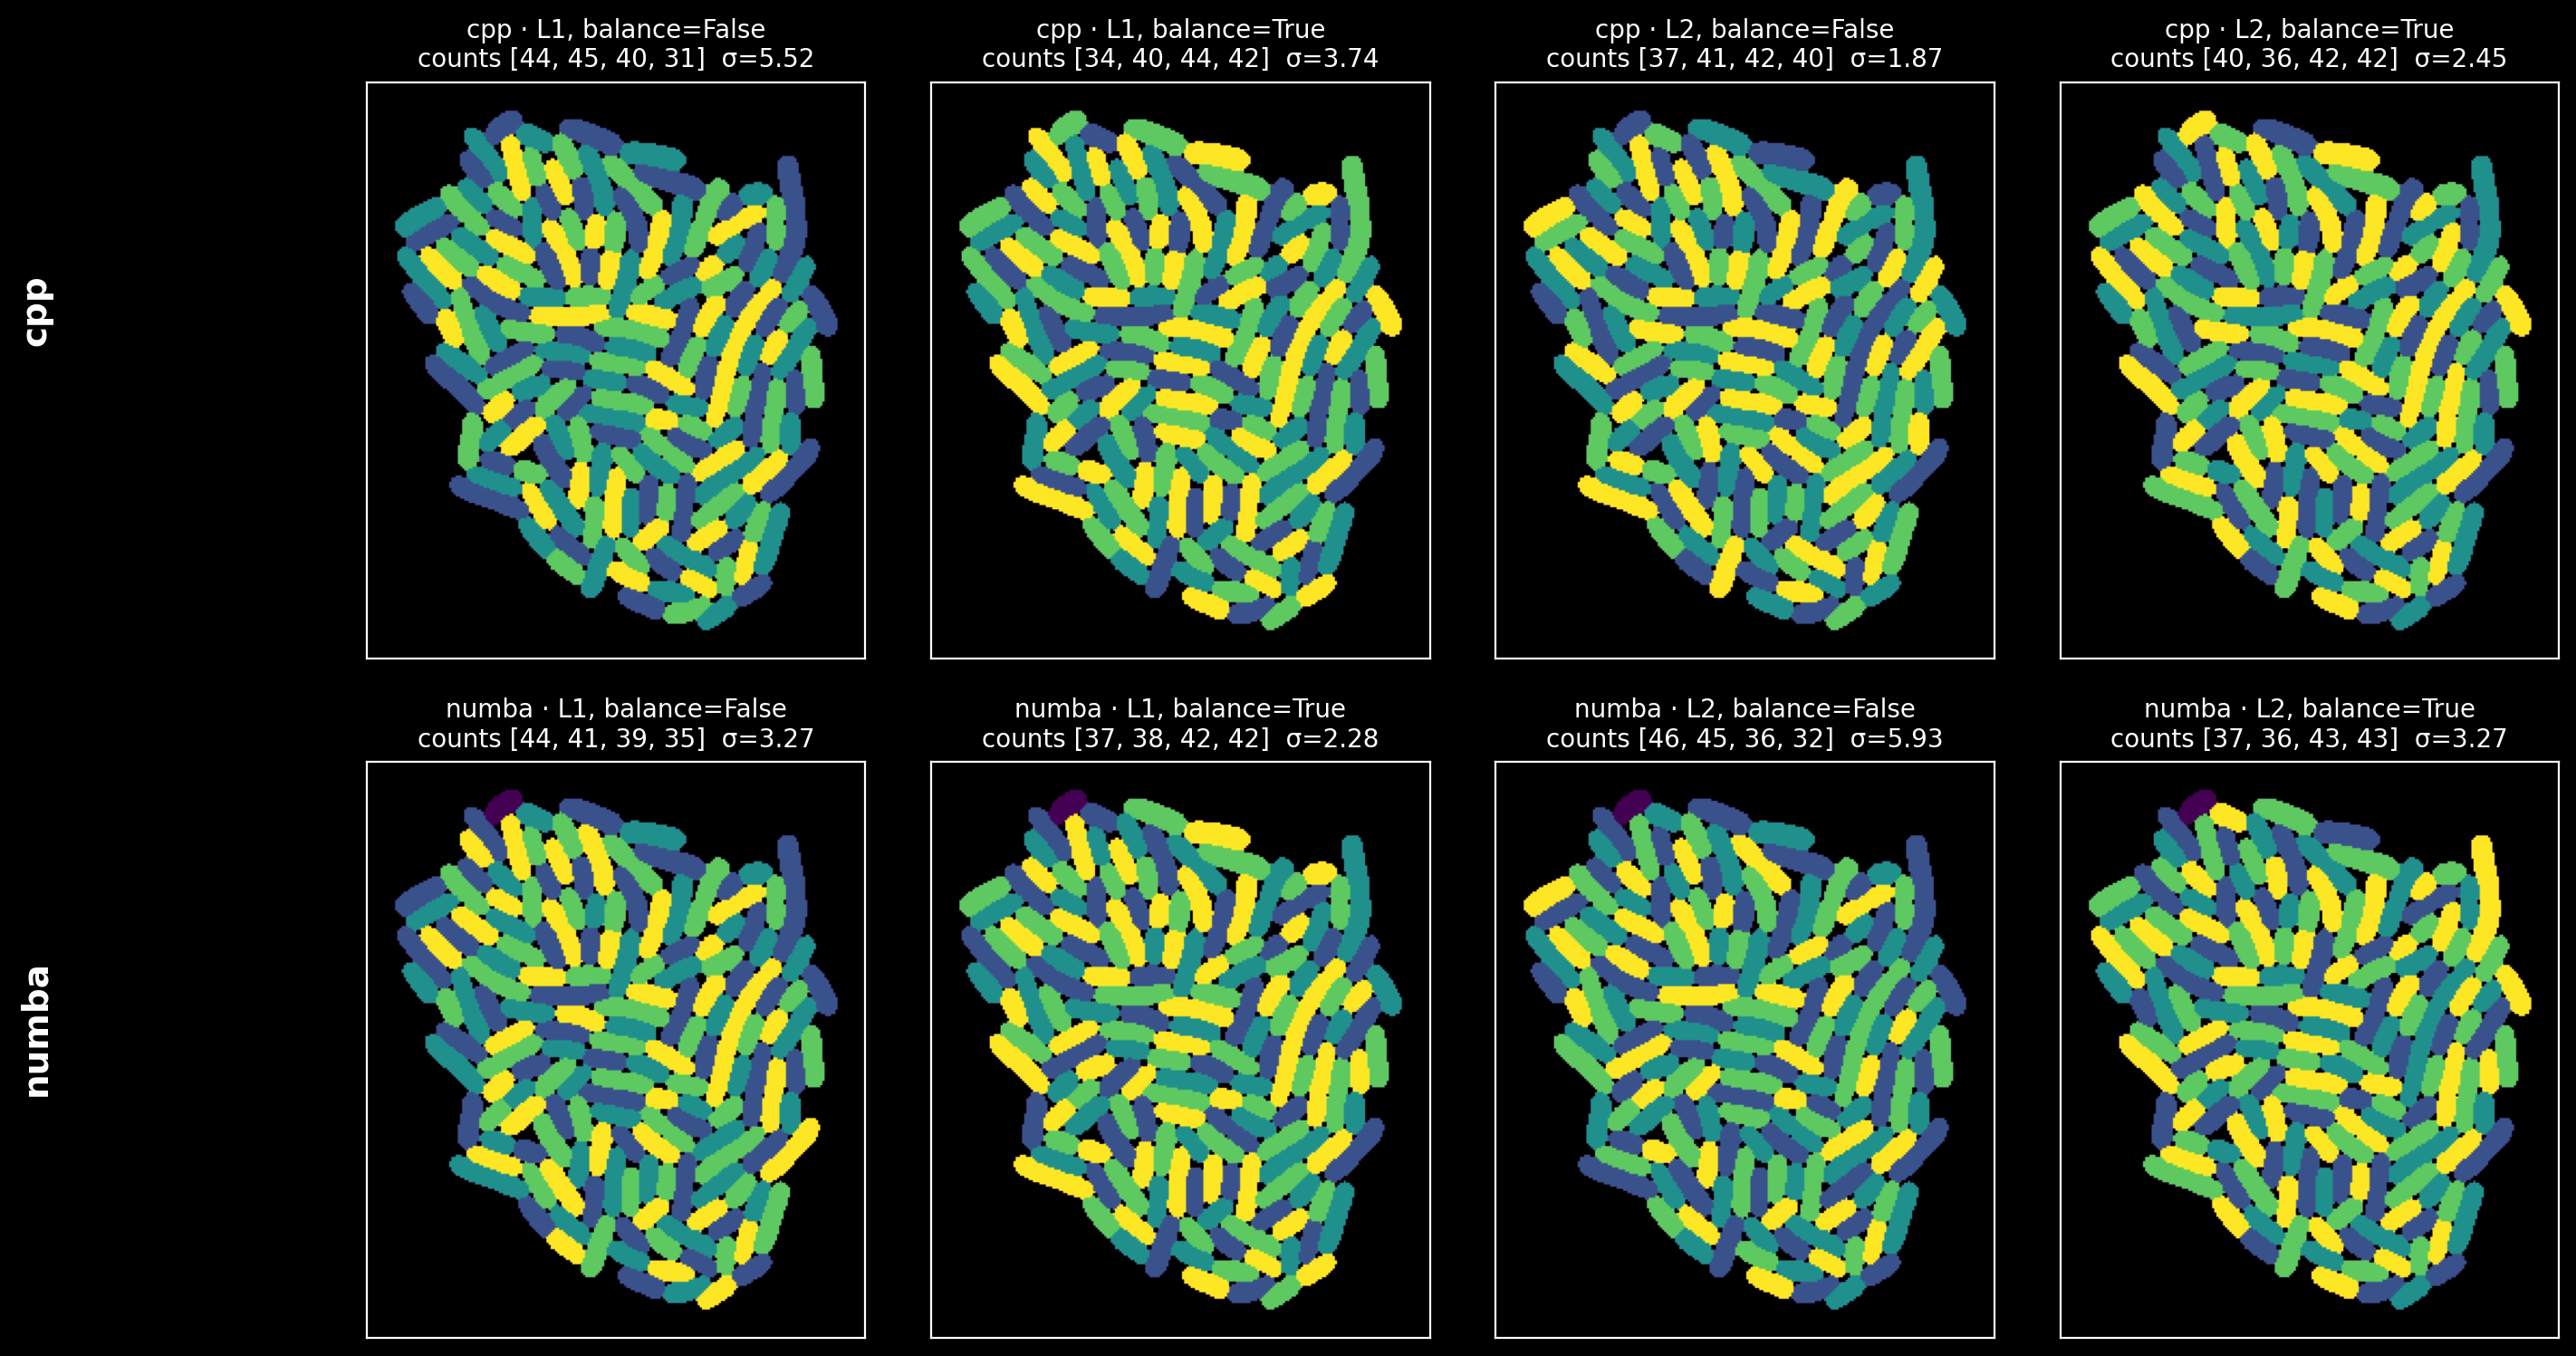
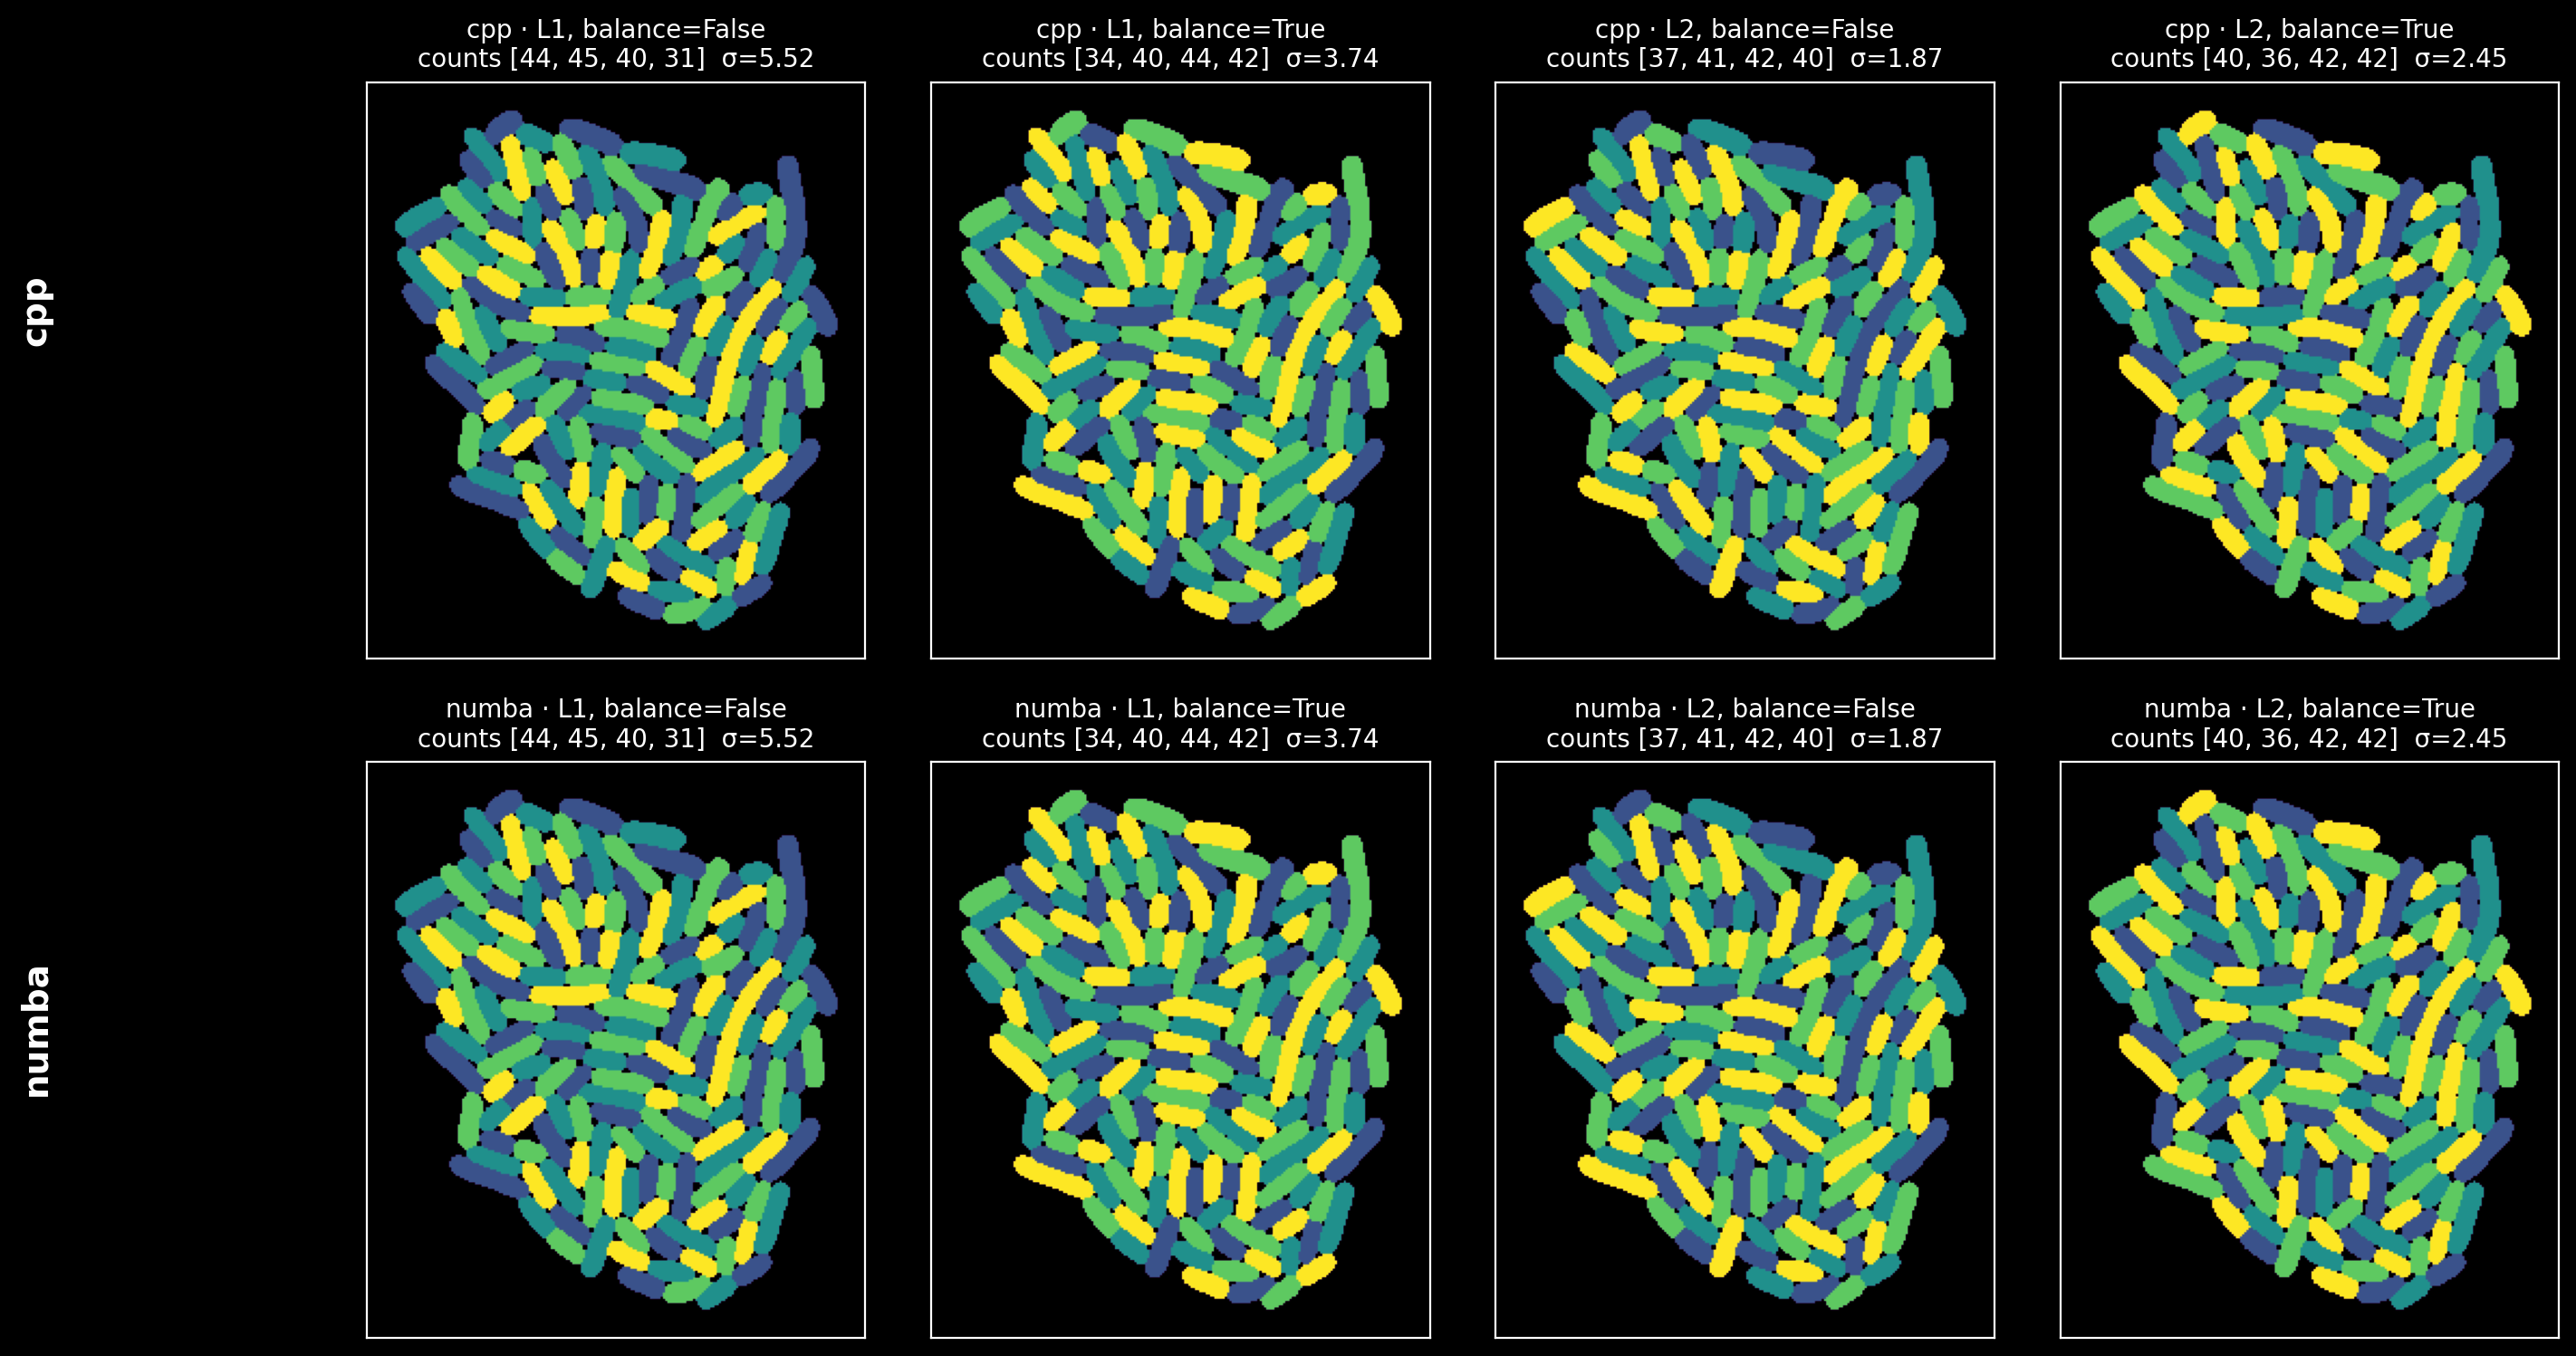
cpp+py: fix format_labels min-shift bug for the ascending-source path
Earlier I fixed the min-shift logic in format_labels_inplace_first_seen
(only shift when min < 0) but missed the parallel fix in
format_labels_inplace itself — the default ascending-source path. Same
bug as the first_seen variant: when the input has no zeros (e.g. an
already-expanded label map), min > 0 triggered a shift that absorbed
the smallest cell into the bg.

Visible symptom (caught by user when checking the numba L2 baseline
in the balance comparison figure): the top-left cell of the logo
appeared as background colour 0 because label 1 → 0 after the shift,
then masked out as bg. Made cell-count sums show 159 instead of 160.

Also patched the legacy Python ``ncolor.format_labels`` (used as a
fallback in the cpp engine's exception path and by ``_normalize_labels``
in the numba pipeline). Same logic: only shift when min < 0.

Side-effect: cpp and numba now produce IDENTICAL colorings on the same
input (since they run the same algorithm — the divergence was purely
due to one path corrupting the formatted labels):

  config                cpp counts             numba counts
  L1 balance=False      [44, 45, 40, 31]       [44, 45, 40, 31]   ✓ same
  L1 balance=True       [34, 40, 44, 42]       [34, 40, 44, 42]   ✓ same
  L2 balance=False      [37, 41, 42, 40]       [37, 41, 42, 40]   ✓ same
  L2 balance=True       [40, 36, 42, 42]       [40, 36, 42, 42]   ✓ same

Updated examples/balance_comparison.png reflects the unified result.

321/321 tests pass.

diff --git a/src/ncolor/format.py b/src/ncolor/format.py
@@ -71,15 +71,22 @@ def format_labels(labels, clean=False, min_area=9, despur=False,
     labels = labels.copy()
     labels = labels.astype('int32') #uint vs int
     if background is None:
-        background = np.min(labels)
+        # Treat min as bg ONLY when negative (e.g. -1 used as bg by some
+        # segmenters). For min >= 0 the input either already has bg at 0
+        # or has no bg (every pixel labeled — typical for already-expanded
+        # label maps); shifting in those cases would absorb the smallest
+        # cell into the bg. Mirrors the cpp fix in format_labels_inplace.
+        m = int(np.min(labels))
+        background = m if m < 0 else 0
     else:
         background = 0
 
     if not ignore:
         if verbose:
             print('minimum value is {}, shifting to 0'.format(background))
-        labels -= background
-        background = 0
+        if background != 0:
+            labels -= background
+            background = 0
     labels = labels.astype('uint32')
     
     # optional cleanup 

diff --git a/cpp/format_labels.hpp b/cpp/format_labels.hpp
@@ -179,10 +179,13 @@ inline int32_t format_labels_inplace(int32_t* lbl, int64_t total,
     }
     if (max_lbl <= min_lbl) return 0;  // empty or constant array.
 
-    // 2. If min != 0, shift every label by -min so the new min is 0.
-    // Treats ``min`` as the background marker (matches the legacy
-    // ``format_labels`` "shift to 0" semantics).
-    if (min_lbl != 0) {
+    // Shift to put bg at 0 ONLY when min is negative (e.g. -1 used as bg
+    // by some segmenters). For min >= 0 the input either already has bg
+    // at 0 OR has no bg (every pixel labeled — typical for already-
+    // expanded label maps); shifting in the latter case would absorb
+    // the smallest cell into the bg. Same fix as in
+    // format_labels_inplace_first_seen — both variants must agree.
+    if (min_lbl < 0) {
         const int32_t shift = -min_lbl;
         if (n_threads <= 1 || total < 500000) {
             for (int64_t i = 0; i < total; ++i) lbl[i] += shift;